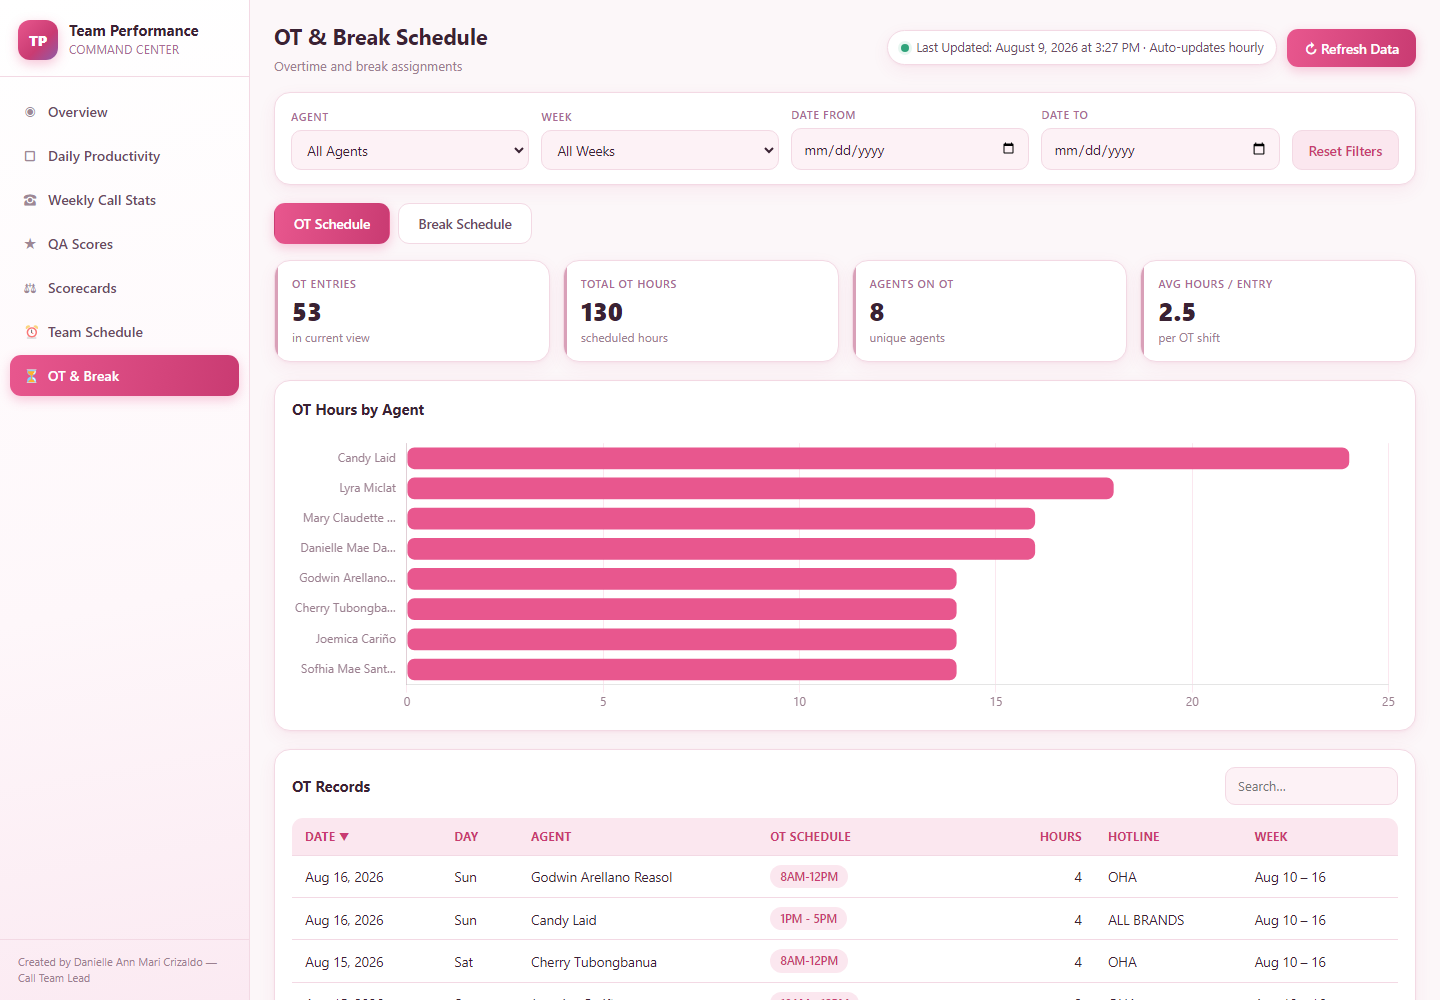
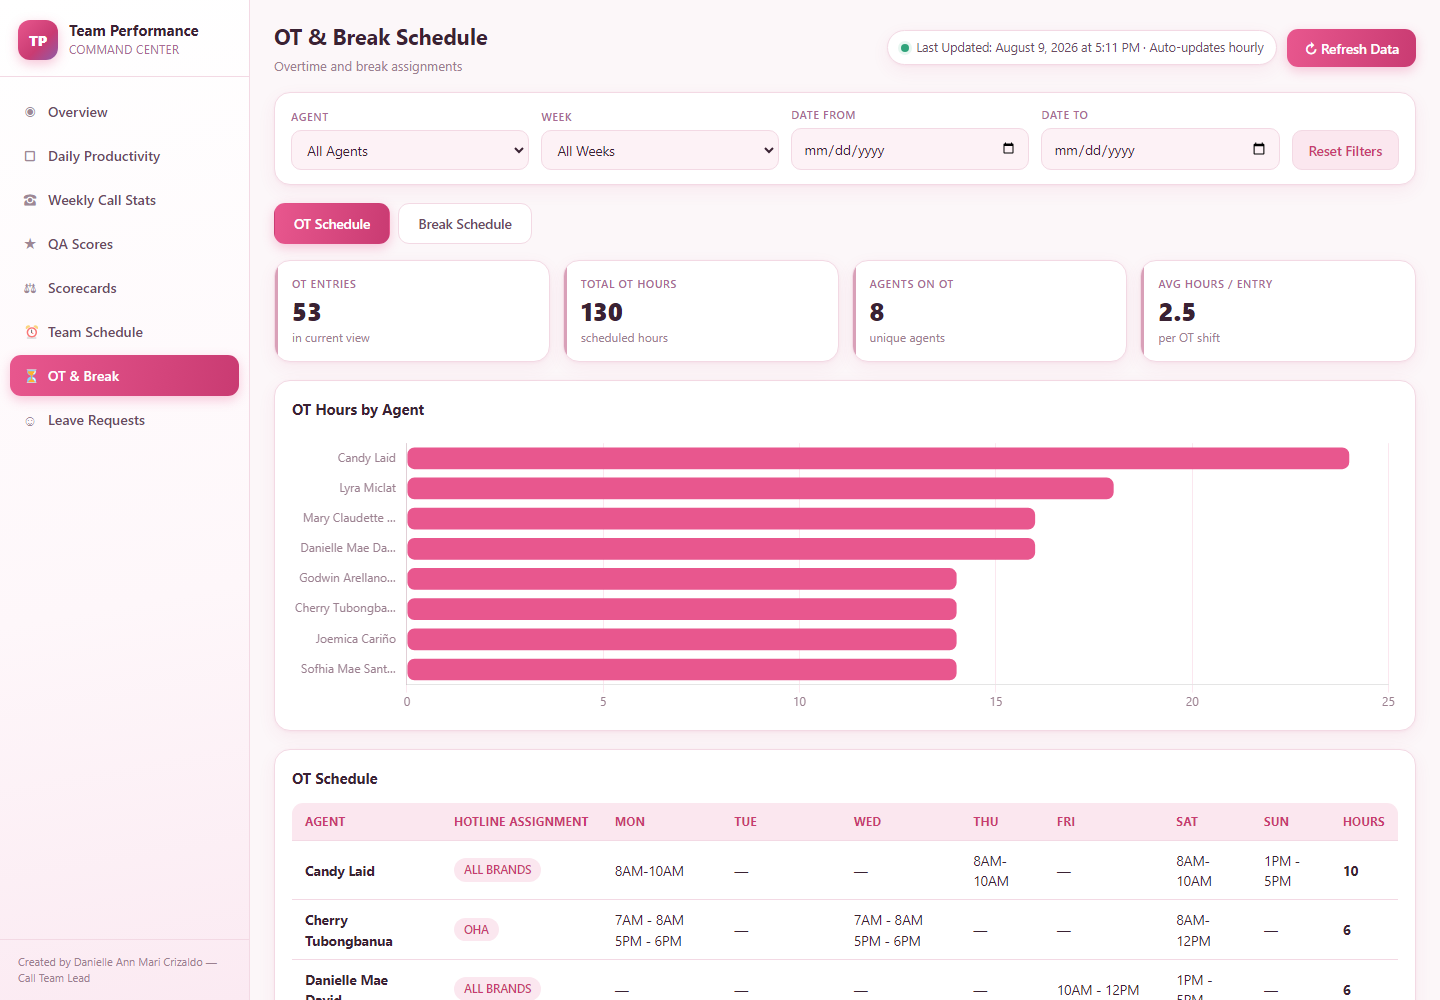
OT schedule grid + trim schedules to August + re-add Leave Requests tab with submission form

diff --git a/app-render2.js b/app-render2.js
@@ -146,13 +146,43 @@ function renderOtBreak() {
   barChart('chOt', ag, ag.map(function (a) { return sum(byAg.map[a].map(function (r) { return r.hours; })); }),
     { horizontal: true, label: 'OT Hours', unit: 'hrs' });
 
+  // OT schedule grid: one row per agent, columns = Hotline | Mon..Sun (otTime) | Hours
+  var weeks = uniq(ot.map(function (r) { return r.week; })).sort().reverse();
+  var target = F.week !== 'ALL' && weeks.indexOf(F.week) >= 0 ? F.week : weeks[0];
+  var grid = $('otGrid');
+  if (!target) {
+    grid.innerHTML = '<div class="empty"><b>No OT schedule</b>No OT records available for the selected filters.</div>';
+  } else {
+    var wkRows = ot.filter(function (r) { return r.week === target; });
+    var dayKeys = ['Mon', 'Tue', 'Wed', 'Thu', 'Fri', 'Sat', 'Sun'];
+    var agents = uniq(wkRows.map(function (r) { return r.agent; })).sort();
+    var idx = {};
+    var hotlineOf = {};
+    wkRows.forEach(function (r) { idx[r.agent + '|' + r.day] = r; if (r.hotline) hotlineOf[r.agent] = r.hotline; });
+    var h = '<table><thead><tr><th>Agent</th><th>Hotline Assignment</th>';
+    dayKeys.forEach(function (d) { h += '<th>' + d + '</th>'; });
+    h += '<th>Hours</th></tr></thead><tbody>';
+    agents.forEach(function (a) {
+      var wkHours = sum(wkRows.filter(function (r) { return r.agent === a; }).map(function (r) { return r.hours || 0; }));
+      h += '<tr><td><b>' + esc(a) + '</b></td>' +
+           '<td>' + (hotlineOf[a] ? '<span class="pill n">' + esc(hotlineOf[a]) + '</span>' : '—') + '</td>';
+      dayKeys.forEach(function (d) {
+        var r = idx[a + '|' + d];
+        h += '<td>' + (r ? esc(r.otTime) : '—') + '</td>';
+      });
+      h += '<td><b>' + n1(wkHours) + '</b></td></tr>';
+    });
+    h += '</tbody></table>';
+    grid.innerHTML = h;
+  }
+
   makeTable('otTable', [
     { key: 'date', label: 'Date', fmt: function (r) { return fmtDate(r.date); }, sortVal: function (r) { return r.date; } },
     { key: 'day', label: 'Day' },
     { key: 'agent', label: 'Agent' },
     { key: 'otTime', label: 'OT Schedule', fmt: function (r) { return '<span class="pill n">' + esc(r.otTime) + '</span>'; } },
-    { key: 'hours', label: 'Hours', num: true, fmt: function (r) { return r.hours === null ? '\u2014' : n1(r.hours); } },
-    { key: 'hotline', label: 'Hotline', fmt: function (r) { return esc(r.hotline || '\u2014'); } },
+    { key: 'hours', label: 'Hours', num: true, fmt: function (r) { return r.hours === null ? '—' : n1(r.hours); } },
+    { key: 'hotline', label: 'Hotline', fmt: function (r) { return esc(r.hotline || '—'); } },
     { key: 'week', label: 'Week', fmt: function (r) { return fmtWeek(r.week); }, sortVal: function (r) { return r.week; } }
   ], ot, { sort: 'date', dir: 'desc', empty: 'No OT records available for the selected filters.' });
 
@@ -161,14 +191,65 @@ function renderOtBreak() {
   makeTable('bkTable', [
     { key: 'agent', label: 'Agent' },
     { key: 'day', label: 'Day' },
-    { key: 'firstBreak', label: 'First Break', fmt: function (r) { return r.off ? '<span class="pill off">OFF</span>' : esc(r.firstBreak || '\u2014'); } },
-    { key: 'lunchBreak', label: 'Lunch Break', fmt: function (r) { return esc(r.lunchBreak || '\u2014'); } },
-    { key: 'lastBreak', label: 'Last Break', fmt: function (r) { return esc(r.lastBreak || '\u2014'); } },
-    { key: 'team', label: 'Team', fmt: function (r) { return r.team ? '<span class="pill n">' + esc(r.team) + '</span>' : '\u2014'; } },
+    { key: 'firstBreak', label: 'First Break', fmt: function (r) { return r.off ? '<span class="pill off">OFF</span>' : esc(r.firstBreak || '—'); } },
+    { key: 'lunchBreak', label: 'Lunch Break', fmt: function (r) { return esc(r.lunchBreak || '—'); } },
+    { key: 'lastBreak', label: 'Last Break', fmt: function (r) { return esc(r.lastBreak || '—'); } },
+    { key: 'team', label: 'Team', fmt: function (r) { return r.team ? '<span class="pill n">' + esc(r.team) + '</span>' : '—'; } },
     { key: 'source', label: 'Source' }
   ], bk, { sort: 'agent', dir: 'asc', empty: 'No break schedule available for this agent.' });
 }
 
 /* ---------------- LEAVE REQUESTS ---------------- */
 var STATUS_CLASS = { Approved: 'ok', Pending: 'warn', Declined: 'bad' };
+
+function renderLeaves() {
+  var lv = slice(DATA.leaveRequests);
+
+  kpi('lvKpis', [
+    { label: 'Total Requests', value: n0(lv.length), sub: 'in current view' },
+    { label: 'Approved', value: n0(lv.filter(function (r) { return r.statusNorm === 'Approved'; }).length), sub: 'approved', tone: 'good' },
+    { label: 'Pending', value: n0(lv.filter(function (r) { return r.statusNorm === 'Pending'; }).length), sub: 'awaiting', tone: 'warn' },
+    { label: 'Declined', value: n0(lv.filter(function (r) { return r.statusNorm === 'Declined'; }).length), sub: 'declined', tone: 'bad' }
+  ]);
+
+  makeTable('lvTable', [
+    { key: 'agent', label: 'Agent' },
+    { key: 'leaveType', label: 'Type' },
+    { key: 'reason', label: 'Reason' },
+    { key: 'date', label: 'Date (Manila)', fmt: function (r) { return r.dateManila ? fmtDate(r.dateManila) : (r.date ? fmtDate(r.date) : '—'); }, sortVal: function (r) { return r.date || r.dateManila || ''; } },
+    { key: 'status', label: 'Status', fmt: function (r) {
+        var k = STATUS_CLASS[r.statusNorm] || 'n';
+        return '<span class="pill ' + k + '">' + esc(r.statusNorm || r.status || '—') + '</span>';
+      } }
+  ], lv, { sort: 'date', dir: 'desc', per: 25, pagerId: 'lvPager', empty: 'No leave requests available for the selected filters.' });
+
+  // populate agent dropdown from known agents
+  var sel = $('lvAgent');
+  if (sel && !sel.dataset.filled) {
+    var agents = uniq(lv.map(function (r) { return r.agent; })).sort();
+    sel.innerHTML = agents.map(function (a) { return '<option value="' + esc(a) + '">' + esc(a) + '</option>'; }).join('');
+    sel.dataset.filled = '1';
+  }
+}
+
+/** Submit a leave request: POST to a web-app endpoint if configured, else
+ *  keep a local draft. The dashboard is a static snapshot, so a live write to
+ *  the Google Sheet requires a tiny Apps Script web app (see DEPLOY notes). */
+function submitLeave(payload) {
+  var url = (window.DASHBOARD_CONFIG && window.DASHBOARD_CONFIG.leaveWebAppUrl) || '';
+  if (!url) {
+    // no endpoint configured - store locally so it still shows on the dashboard
+    try {
+      var drafts = JSON.parse(localStorage.getItem('leaveDrafts') || '[]');
+      drafts.push(payload);
+      localStorage.setItem('leaveDrafts', JSON.stringify(drafts));
+    } catch (e) {}
+    return Promise.resolve({ ok: true, local: true });
+  }
+  return fetch(url, {
+    method: 'POST',
+    headers: { 'Content-Type': 'application/json' },
+    body: JSON.stringify(payload)
+  }).then(function (r) { return r.json(); }).catch(function () { return { ok: false }; });
+}
 

diff --git a/index.html b/index.html
@@ -4,7 +4,7 @@
 <meta charset="utf-8">
 <meta name="viewport" content="width=device-width, initial-scale=1">
 <title>Team Performance Command Center</title>
-<link rel="stylesheet" href="styles.css?v=7">
+<link rel="stylesheet" href="styles.css?v=8">
 </head>
 <body>
 
@@ -24,6 +24,7 @@
     <button class="nav-btn" data-page="scorecards"><span>&#9878;</span>Scorecards</button>
     <button class="nav-btn" data-page="schedule"><span>&#9200;</span>Team Schedule</button>
     <button class="nav-btn" data-page="otbreak"><span>&#9203;</span>OT &amp; Break</button>
+    <button class="nav-btn" data-page="leave"><span>&#9786;</span>Leave Requests</button>
   </nav>
   <div class="side-foot">Created by Danielle Ann Mari Crizaldo &mdash; Call Team Lead</div>
 </aside>
@@ -156,6 +157,10 @@
       <div class="kpis" id="otKpis"></div>
       <div class="card"><h3>OT Hours by Agent</h3><div class="chartbox"><canvas id="chOt"></canvas></div></div>
       <div class="card">
+        <div class="card-head"><h3>OT Schedule</h3></div>
+        <div class="tscroll" id="otGrid"></div>
+      </div>
+      <div class="card">
         <div class="card-head"><h3>OT Records</h3><input class="search" id="otSearch" placeholder="Search&hellip;"></div>
         <div class="tscroll" id="otTable"></div>
       </div>
@@ -168,7 +173,47 @@
     </div>
   </section>
 
-  <!-- LEAVE -->
+  <!-- LEAVE REQUESTS -->
+  <section class="page" id="pageLeave" hidden>
+    <div class="kpis" id="lvKpis"></div>
+    <div class="grid2">
+      <div class="card">
+        <div class="card-head"><h3>File a Leave Request</h3></div>
+        <form id="leaveForm" class="leave-form">
+          <label>Agent
+            <select id="lvAgent" required></select>
+          </label>
+          <label>Leave Type
+            <select id="lvType" required>
+              <option value="Off Adjustment">Off Adjustment</option>
+              <option value="Half Day LWOP">Half Day LWOP</option>
+              <option value="Whole Day LWOP">Whole Day LWOP</option>
+            </select>
+          </label>
+          <label>Reason
+            <select id="lvReason" required>
+              <option value="Birthday/Family Celebration">Birthday/Family Celebration</option>
+              <option value="Medical Appointment">Medical Appointment</option>
+              <option value="Personal Emergency">Personal Emergency</option>
+              <option value="Others">Others</option>
+            </select>
+          </label>
+          <label>Date (Manila)
+            <input type="date" id="lvDate" required>
+          </label>
+          <label>Details
+            <input type="text" id="lvDetails" placeholder="Optional notes">
+          </label>
+          <button type="submit" class="btn-refresh">Submit Request</button>
+          <p class="leave-note" id="leaveNote"></p>
+        </form>
+      </div>
+      <div class="card">
+        <h3>Leave Requests</h3>
+        <div class="tscroll" id="lvTable"></div>
+      </div>
+    </div>
+  </section>
 
   <footer class="foot">Created by Danielle Ann Mari Crizaldo &mdash; Call Team Lead</footer>
 </main>
@@ -177,12 +222,12 @@
 <div class="toast" id="toast" hidden></div>
 
 <script src="chart.umd.min.js"></script>
-<script src="config.js?v=7"></script>
-<script src="data.js?v=7"></script>
-<script src="app-core.js?v=7"></script>
-<script src="app-charts.js?v=7"></script>
-<script src="app-render.js?v=7"></script>
-<script src="app-render2.js?v=7"></script>
-<script src="app-init.js?v=7"></script>
+<script src="config.js?v=8"></script>
+<script src="data.js?v=8"></script>
+<script src="app-core.js?v=8"></script>
+<script src="app-charts.js?v=8"></script>
+<script src="app-render.js?v=8"></script>
+<script src="app-render2.js?v=8"></script>
+<script src="app-init.js?v=8"></script>
 </body>
 </html>

diff --git a/app-init.js b/app-init.js
@@ -10,6 +10,7 @@ var PAGE_META = {
   scorecards:   ['Scorecards', 'Official overall scores and team ranking'],
   schedule:     ['Team Schedule', 'Shifts and rest days by agent'],
   otbreak:      ['OT & Break Schedule', 'Overtime and break assignments'],
+  leave:        ['Leave Requests', 'File and view leave requests'],
 };
 
 /** Single dispatcher - every page re-renders from current filter state. */
@@ -22,6 +23,7 @@ function render() {
   try { renderScorecards(); }   catch (e) { console.error('scorecards', e); }
   try { renderSchedule(); }     catch (e) { console.error('schedule', e); }
   try { renderOtBreak(); }      catch (e) { console.error('otbreak', e); }
+  try { renderLeaves(); }       catch (e) { console.error('leave', e); }
   setTimeout(resizeCharts, 30);
 }
 
@@ -104,9 +106,9 @@ function wire() {
     F = { agent: 'ALL', week: 'ALL', from: '', to: '' };
     $('fAgent').value = 'ALL'; $('fWeek').value = 'ALL';
     $('fFrom').value = ''; $('fTo').value = '';
-    ['prSearch', 'clSearch', 'qaSearch', 'scSearch', 'tsSearch', 'otSearch', 'bkSearch']
+    ['prSearch', 'clSearch', 'qaSearch', 'scSearch', 'tsSearch', 'otSearch', 'bkSearch', 'lvSearch']
       .forEach(function (id) { if ($(id)) $(id).value = ''; });
-    ['prTable', 'clTable', 'qaTable', 'qaRank', 'scTable', 'scDetail', 'tsTable', 'otTable', 'bkTable']
+    ['prTable', 'clTable', 'qaTable', 'qaRank', 'scTable', 'scDetail', 'tsTable', 'otTable', 'bkTable', 'lvTable']
       .forEach(function (id) { if ($(id) && $(id)._st) { $(id)._st.q = ''; $(id)._st.page = 1; } });
     render();
     toast('Filters reset.');
@@ -132,6 +134,33 @@ function wire() {
   wireSearch('tsSearch', 'tsTable');
   wireSearch('otSearch', 'otTable');
   wireSearch('bkSearch', 'bkTable');
+  wireSearch('lvSearch', 'lvTable');
+
+  var lf = $('leaveForm');
+  if (lf) lf.onsubmit = function (e) {
+    e.preventDefault();
+    var payload = {
+      agent: $('lvAgent').value,
+      leaveType: $('lvType').value,
+      reason: $('lvReason').value,
+      dateManila: $('lvDate').value,
+      details: $('lvDetails').value
+    };
+    submitLeave(payload).then(function (res) {
+      var note = $('leaveNote');
+      if (res && res.ok) {
+        note.textContent = res.local
+          ? 'Saved locally (no sheet endpoint configured). It will appear after the next sync once wired.'
+          : 'Submitted to the leave sheet.';
+        note.className = 'leave-note ok';
+        lf.reset();
+        renderLeaves();
+      } else {
+        note.textContent = 'Submission failed. Please try again.';
+        note.className = 'leave-note bad';
+      }
+    });
+  };
 
   var rt;
   window.addEventListener('resize', function () { clearTimeout(rt); rt = setTimeout(resizeCharts, 160); });

diff --git a/tools/mkmock.js b/tools/mkmock.js
@@ -40,8 +40,13 @@ restrictToYear(out, DATA_YEAR);
 const scorecardsFull = out.scorecards;
 restrictFrom(out, DATA_FROM);
 out.scorecards = scorecardsFull;
+// Schedule-type datasets capped at DATA_TO (August) so future roster weeks drop.
+['teamSchedule', 'otSchedule', 'breakSchedule'].forEach(k => {
+  if (Array.isArray(out[k])) out[k] = out[k].filter(r => rowFrom(r, DATA_FROM) && beforeTo(r, DATA_TO));
+});
 out.dataYear = DATA_YEAR;
 out.dataFrom = DATA_FROM;
+out.dataTo = DATA_TO;
 console.log('year filter (before -> after):');
 Object.keys(before).forEach(k=>{ if(before[k]!==out[k].length) console.log('  '+k+': '+before[k]+' -> '+out[k].length); });
 fs.writeFileSync('../mock-api.json', JSON.stringify(out));

diff --git a/config.js b/config.js
@@ -8,3 +8,10 @@
 
 /* Shown next to the Last Updated stamp. Set to '' to hide. */
 window.DATA_SOURCE_NOTE = 'Auto-updates hourly';
+
+/* Leave Request write endpoint. Leave empty ('') to save submissions as a
+ * local draft only (shown after the next hourly sync once wired to the sheet).
+ * To write straight to the Google Sheet, deploy a tiny Apps Script web app
+ * from the leave-request sheet and paste its URL here. */
+window.DASHBOARD_CONFIG = window.DASHBOARD_CONFIG || {};
+window.DASHBOARD_CONFIG.leaveWebAppUrl = '';
